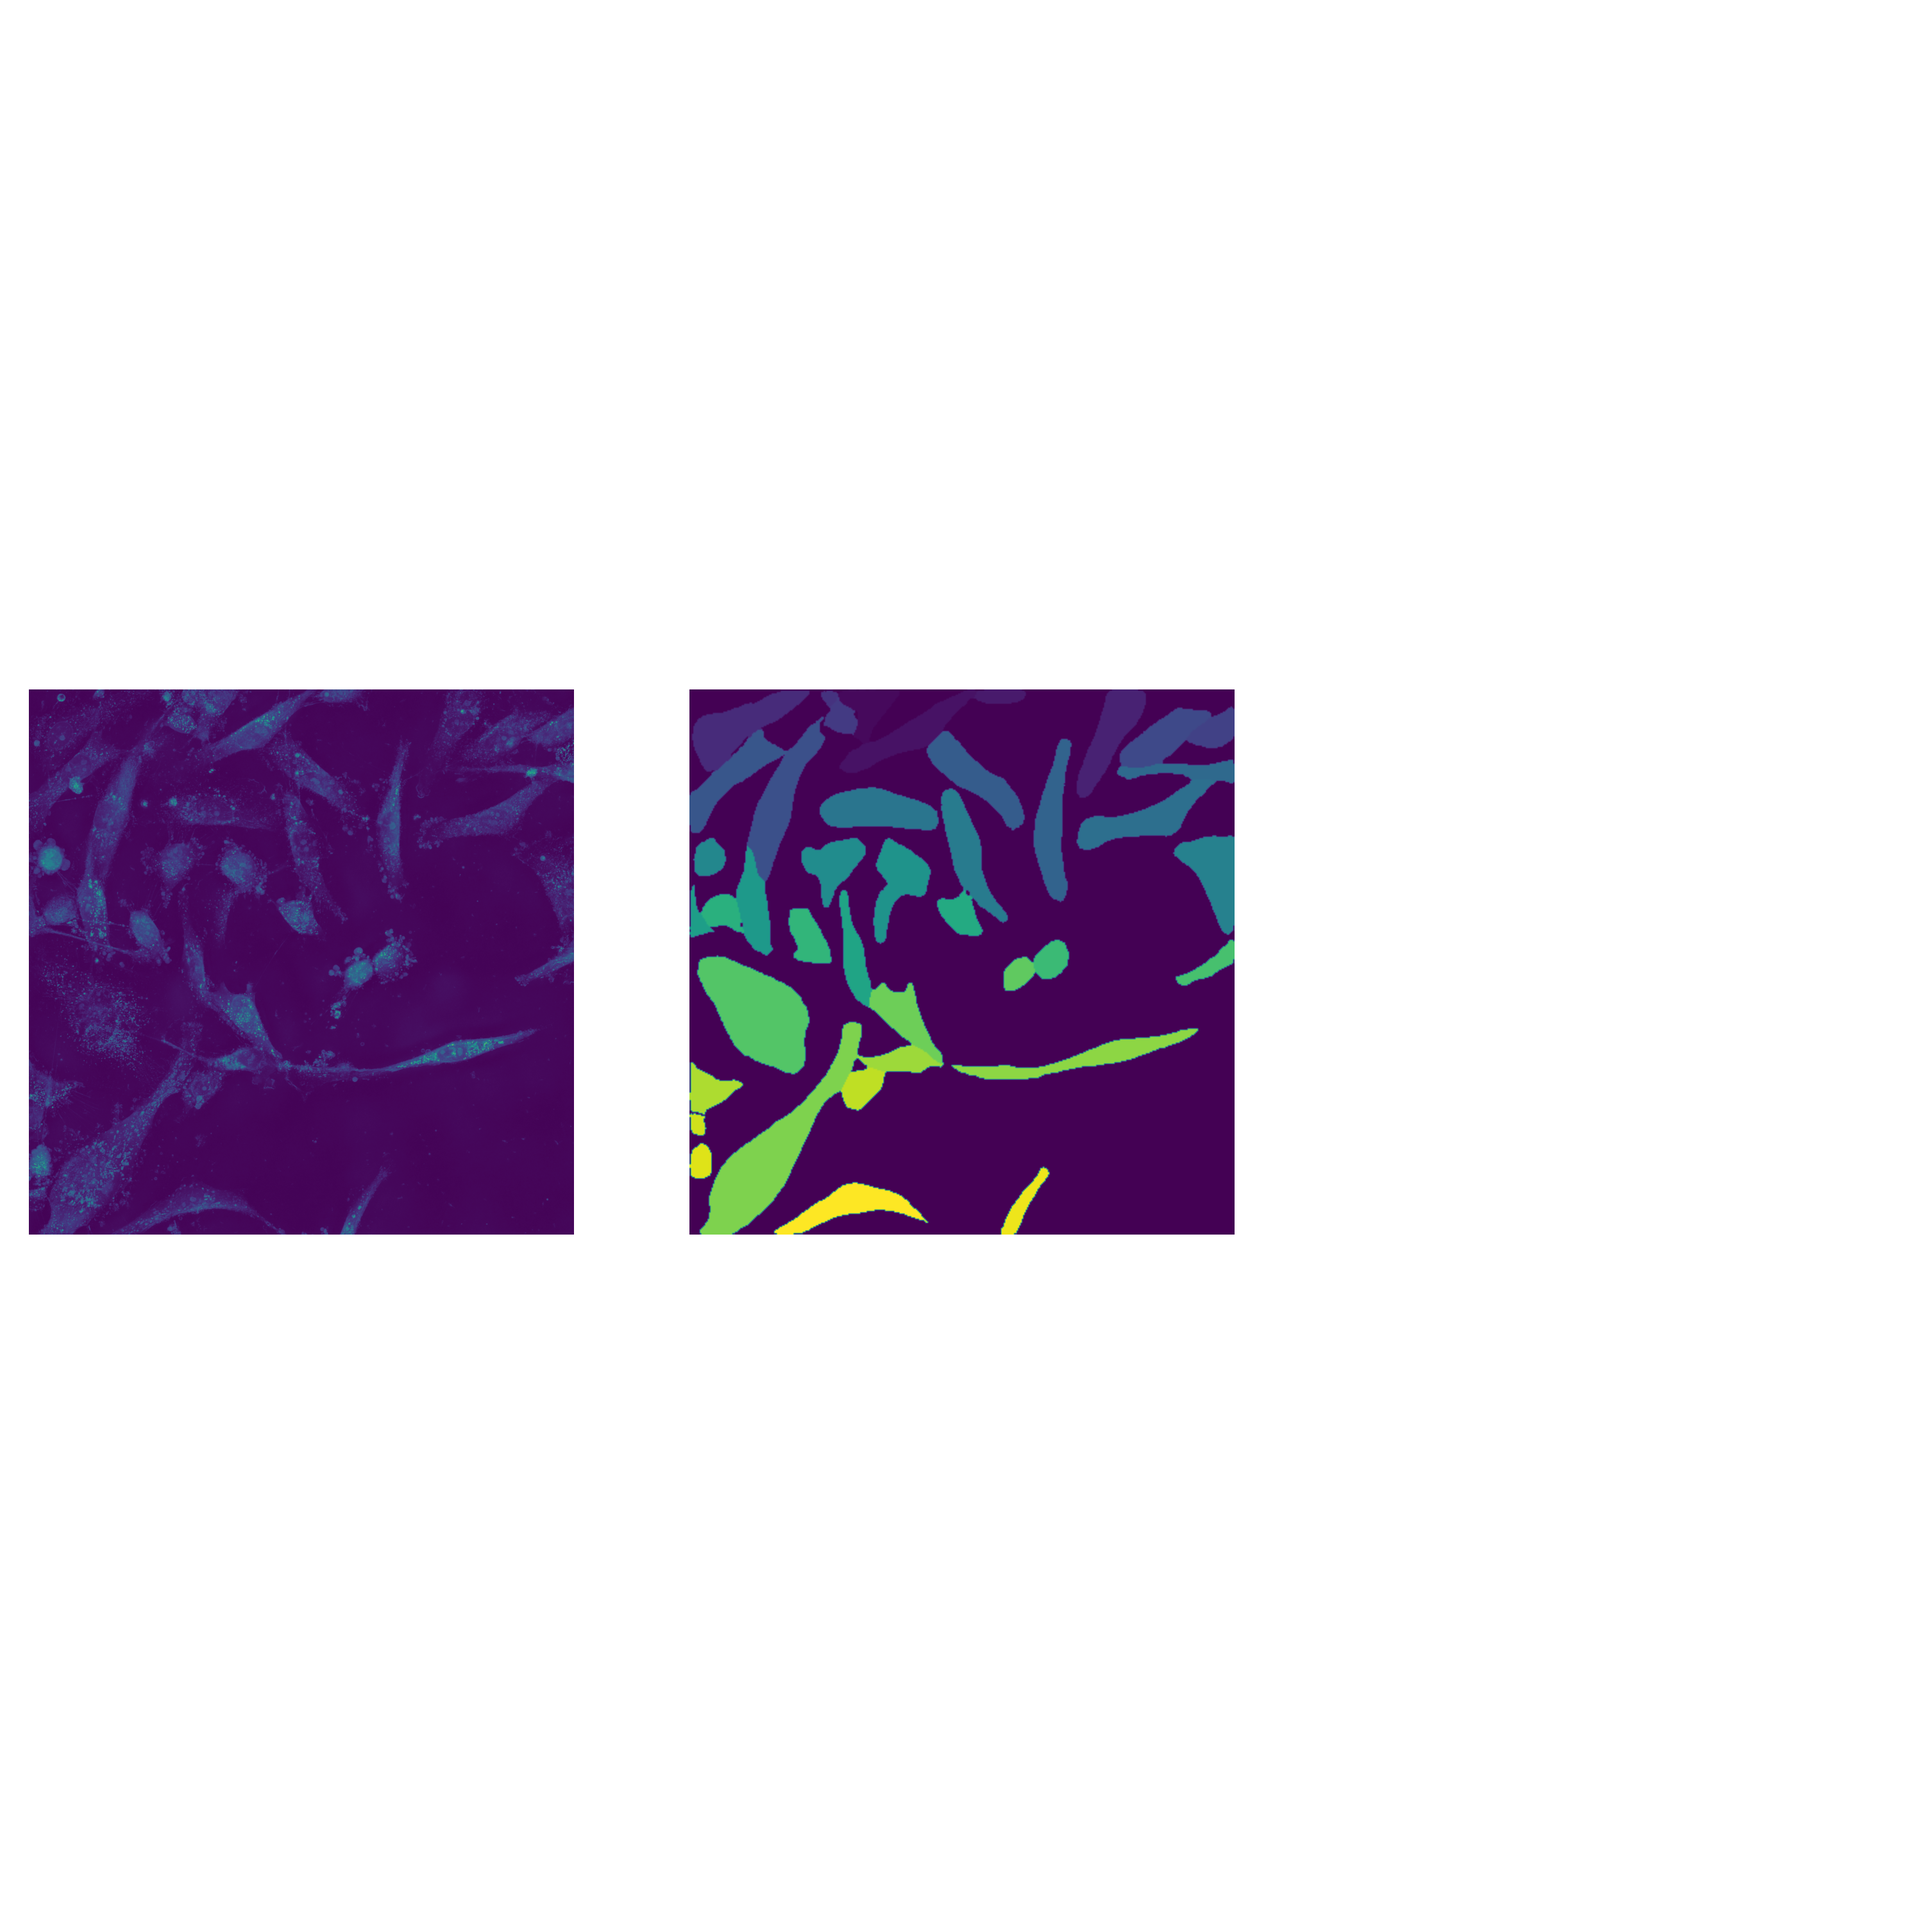
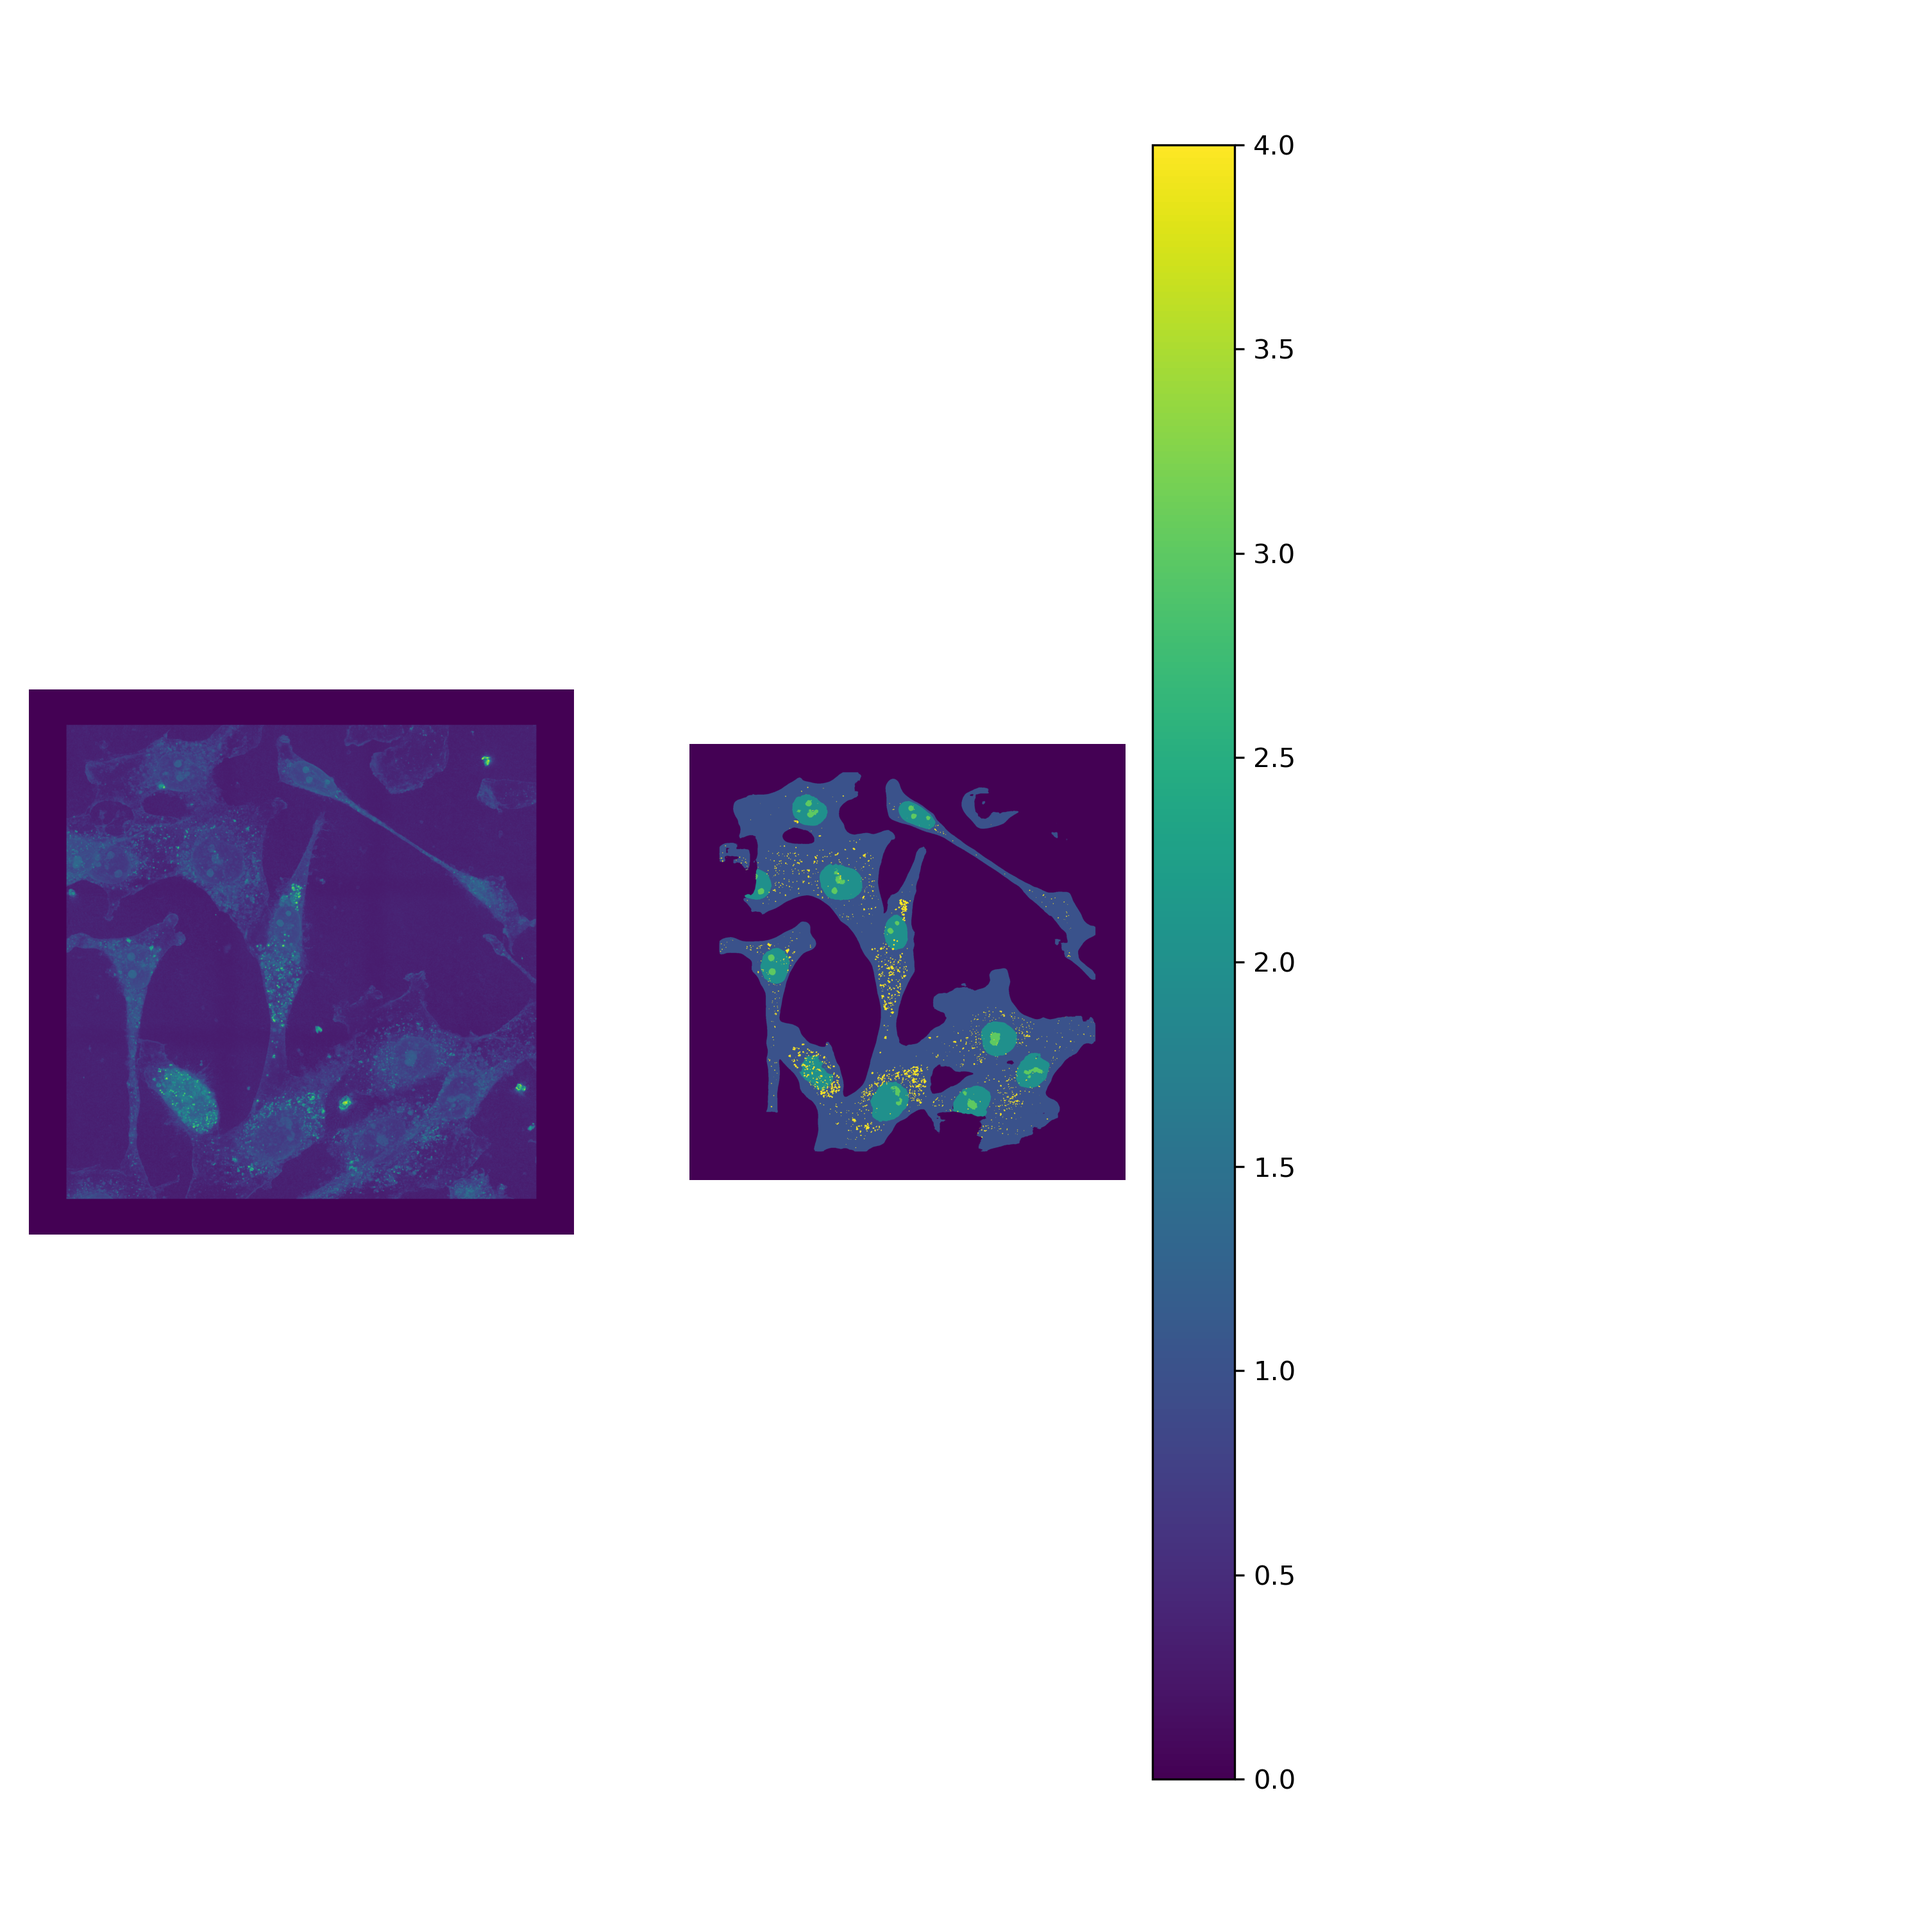
improve predict code

Changed region(s): [[0.341, 0.062, 0.651, 0.93], [0.0, 0.341, 0.31, 0.651]]

diff --git a/qpi_seg/predict_unseen.py b/qpi_seg/predict_unseen.py
@@ -16,7 +16,7 @@ device = torch.device("cuda") if torch.cuda.is_available() else torch.device("cp
 model=UNet(depth=6,in_channels=1,out_channels=5, num_fmaps=32,final_activation=nn.Softmax()).to(device)
 
 #change the model path
-model_path=r'D:\TRAINING_DATA_FINAL\Model_fullsize_checkpoints\checkpoint_epoch_99.pt'
+model_path=r"C:\Users\BarmanLab\Downloads\checkpoint_epoch_190.pt"
 #add map_location if using on CPU
 #model_save=torch.load(model_path,map_location=torch.device('cpu'))
 
@@ -43,43 +43,48 @@ out_file_name_stems=[os.path.splitext(file)[0][:30]+'_unet_masks.tiff'for file i
 out_file_name_masks=[os.path.join(unet_masks_output_folder, file) for file in out_file_name_stems]
 
 from_np=transforms_v2.Lambda(lambda x: torch.from_numpy(x))
-transform = transforms_v2.CenterCrop((1344,1344))
+
+im_size=2016
+transform = transforms_v2.CenterCrop((im_size,im_size))
 
 #for victor's dataset may have to play with this
 norm_min=13300
 norm_max=14100
 model.eval()
+model = model.to(device)
 clustermaps=[]
 
 
-for i in range(1):
+for i in range(0,1):
     #w=test_images[i].shape[0]
     #h=test_images[i].shape[1]
     torch_test_image = from_np(test_images[i])
     torch_test_image=torch_test_image.float()
     img_norm= (torch_test_image - norm_min) / (norm_max - norm_min)
     img_norm=img_norm.unsqueeze(dim=0).to(device)
-    img_norm2=img_norm.unsqueeze(dim=0).to(device)
+    img_norm2=transform(img_norm.unsqueeze(dim=0).to(device))
     #TODO: for future extensions - save size of the image
-    
-    img_norm2=transform(img_norm2)
-    torch_prediction2=model(img_norm2) #prediction
-    clustermap=np.zeros((1344,1344))
-    torch_prediction=torch_prediction2.reshape(5,1344,1344).detach().cpu() #reshape to 5 channels and detach and cpu
+    torch_prediction=model(img_norm2)
+    clustermap=np.zeros((im_size,im_size))
+    torch_prediction=torch_prediction.reshape(5,im_size,im_size).detach().cpu()
     ch1_prediction = torch_prediction[0,:,:]
     ch2_prediction = torch_prediction[1,:,:]
     ch3_prediction= torch_prediction[2,:,:]
     ch4_prediction=torch_prediction[3,:,:]
     ch5_prediction=torch_prediction[4,:,:]
+
     clustermap[ch1_prediction>=0.5]=0
     clustermap[ch2_prediction>=0.5]=1
     clustermap[ch3_prediction>=0.5]=2
     clustermap[ch4_prediction>=0.5]=3
     clustermap[ch5_prediction>=0.5]=4
+    
     transformed_mip=img_norm2.squeeze(dim=0)
     transformed_mip=transformed_mip.squeeze(dim=0).cpu()
+    print(transformed_mip.shape)
+    #print(clustermap.shape)
     visualize.visualize(transformed_mip, clustermap)
-    clustermaps.append(clustermap)
+    #clustermaps.append(clustermap)
 
 #for i in range(len(out_file_name_masks)):
 #    tifffile.imwrite(

diff --git a/qpi_seg/cellpose_bc_segment_victor.py b/qpi_seg/cellpose_bc_segment_victor.py
@@ -17,9 +17,9 @@ print(f"Is CUDA available? {cuda_available}")
 first_model_path=r"D:\Cellpose_segmentation\cpmodel_test_all_images_50epochs.pt"
 
 #put image folder name
-image_folder = r"H:\Victor data\QPI\TIFF 20260611 Exp2 Res t2\2D"
+image_folder = r"D:\TRAINING_DATA_FINAL\TEST_MIP"
 #put output mask folder name
-output_mask_folder = r"H:\Victor data\QPI\TIFF 20260611 Exp2 Res t2\2D_mask_cp_1"
+output_mask_folder = r"D:\TRAINING_DATA_FINAL\OUTPUT_CP"
 #all val image files
 val_image_files=os.listdir(image_folder)
 
@@ -33,7 +33,9 @@ out_file_name_masks=[os.path.join(output_mask_folder, file) for file in out_file
 cpmodel_baseline_50epochs = models.CellposeModel(gpu=True,
                                 pretrained_model=first_model_path)
 test_masks_resized=[]
-for i in range(len(val_images)):
+
+num_images_to_test=1
+for i in range(num_images_to_test):
    
     w=val_images[i].shape[0]
     h=val_images[i].shape[1]
@@ -59,5 +61,5 @@ for i in range(len(val_images)):
 #test_masks=test_masks_output[0:5]
 #pg.plot_grids(val_image_resized,test_masks)
 
-#visualize.visualize(val_images[0], test_masks_resized[0])
+visualize.visualize(val_images[0], test_masks_resized[0])
 #if 5 masks are not there use

diff --git a/qpi_seg/visualize_unseen_unmasked.py b/qpi_seg/visualize_unseen_unmasked.py
@@ -6,8 +6,9 @@ def visualize(im1,im3):
     plt.title("Input image 1",color="white")
     plt.axis('off')
     plt.subplot(132)
-    plt.imshow(im3)
+    plt.imshow(im3,vmin=0,vmax=4)
     plt.title("UNet predicted mask",color="white")
+    plt.colorbar()
     plt.tight_layout()
     plt.axis('off')
     plt.savefig('demoimage.png',dpi=300,transparent=True)

diff --git a/qpi_seg/visualize.py b/qpi_seg/visualize.py
@@ -14,4 +14,5 @@ def visualize(im1,im2,im3):
     plt.title("UNet predicted mask",color="white")
     plt.tight_layout()
     plt.axis('off')
+    plt.colorbar()
     plt.savefig('demoimage.png',dpi=300,transparent=True)
